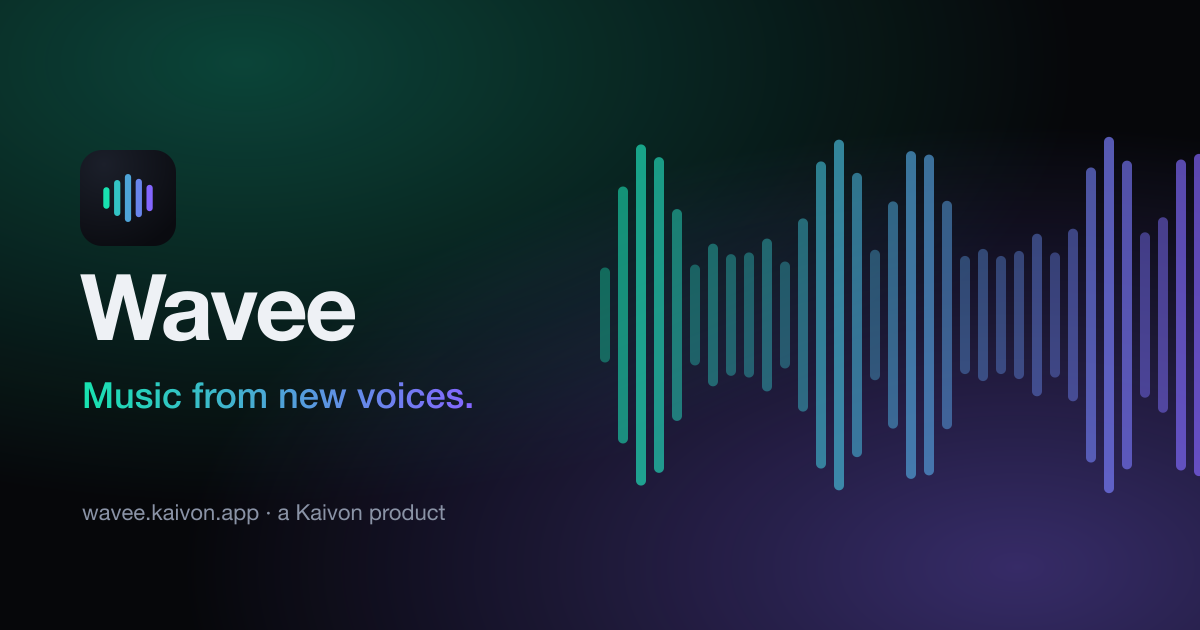
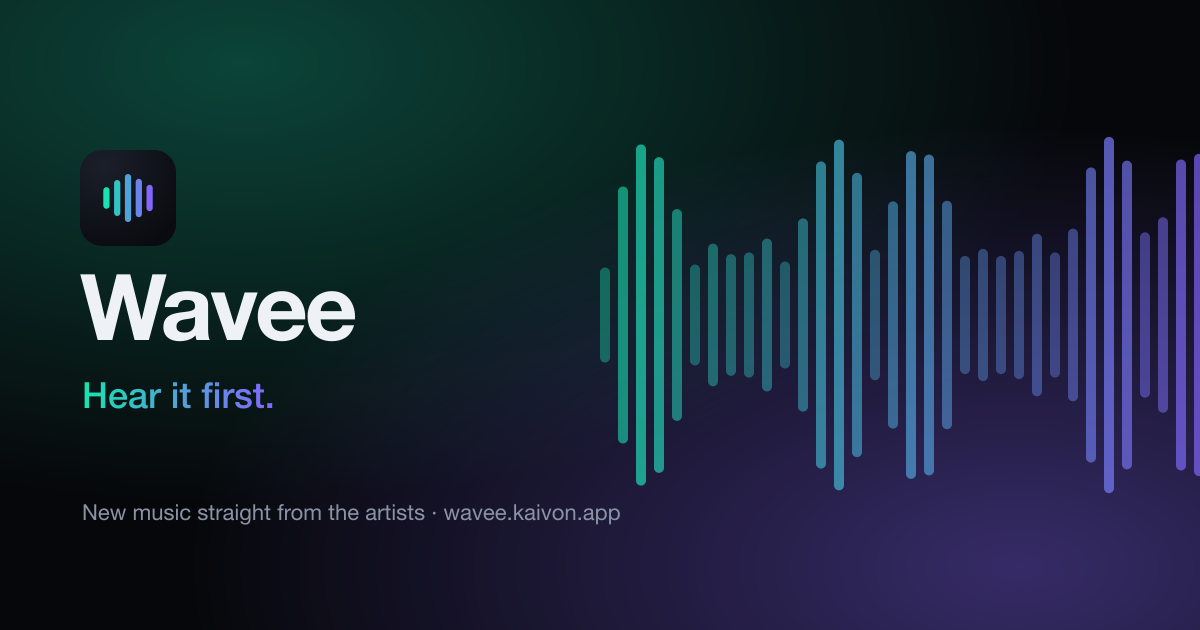
"Hear it first", and verified artists
Wavee is for every artist, from rising names to the biggest stars, so the
slogan is now "Hear it first" (page titles, link previews, sign-in pages,
the home page and the growth plan).

Moderators can verify an artist after confirming it's really them
(set_verified, logged); the badge shows on their profile, songs and the
feed, and artists can't give it to themselves.

Changed region(s): [[0.0617, 0.7841, 0.5242, 0.8444], [0.0617, 0.6032, 0.4008, 0.6635]]

diff --git a/apps/frontend/src/pages/Admin.tsx b/apps/frontend/src/pages/Admin.tsx
@@ -1,9 +1,10 @@
 import { useQuery, useQueryClient } from '@tanstack/react-query';
 import clsx from 'clsx';
 import { useState } from 'react';
-import { LuBug, LuExternalLink, LuFlag, LuShield } from 'react-icons/lu';
+import { LuBadgeCheck, LuBug, LuExternalLink, LuFlag, LuShield } from 'react-icons/lu';
 import { Link } from 'react-router-dom';
-import { Button, EmptyState, Skeleton, Spinner } from '../components/ui';
+import { Verified } from '../components/music/Verified';
+import { Avatar, Button, EmptyState, Input, Skeleton, Spinner } from '../components/ui';
 import { api, type Report } from '../lib/api';
 import { ago } from '../lib/format';
 import { useAuth } from '../store/auth';
@@ -34,7 +35,7 @@ function Pills<T extends string>({ value, options, onChange }: { value: T; optio
 export function Admin() {
   const account = useAuth((s) => s.account);
   const loading = useAuth((s) => s.loading);
-  const [tab, setTab] = useState<'reports' | 'bugs'>('reports');
+  const [tab, setTab] = useState<'reports' | 'bugs' | 'artists'>('reports');
   if (loading) return <Spinner className="mx-auto mt-24 block h-8 w-8 text-muted" />;
   if (!account?.is_admin) return <EmptyState icon={<LuShield />} title="Moderators only" text="This page is for the Wavee team." />;
   return (
@@ -45,6 +46,7 @@ export function Admin() {
           [
             ['reports', 'Reports', <LuFlag key="f" />],
             ['bugs', 'Bug reports', <LuBug key="b" />],
+            ['artists', 'Verify artists', <LuBadgeCheck key="v" />],
           ] as const
         ).map(([id, label, icon]) => (
           <button
@@ -60,7 +62,7 @@ export function Admin() {
           </button>
         ))}
       </div>
-      {tab === 'reports' ? <Reports /> : <Bugs />}
+      {tab === 'reports' ? <Reports /> : tab === 'bugs' ? <Bugs /> : <VerifyArtists />}
     </div>
   );
 }
@@ -214,5 +216,103 @@ function Bugs() {
         )}
       </div>
     </>
+  );
+}
+
+/** Look someone up and give (or take away) the verified badge. Verify only after checking it's
+ * really them: an email from their official address or management, or a post on their official
+ * account mentioning their Wavee username. */
+function VerifyArtists() {
+  const [query, setQuery] = useState('');
+  const [username, setUsername] = useState('');
+  const [note, setNote] = useState('');
+  const [busy, setBusy] = useState(false);
+  const client = useQueryClient();
+  const profile = useQuery({
+    queryKey: ['profile', username],
+    queryFn: () => api.profile(username),
+    enabled: !!username,
+  });
+  const p = profile.data;
+
+  const set = async (verified: boolean) => {
+    if (!p) return;
+    setBusy(true);
+    try {
+      await api.setVerified(p.id, verified, note);
+      await client.invalidateQueries({ queryKey: ['profile', username] });
+      toast(verified ? `${p.display_name || p.username} is verified` : 'Badge removed', 'success');
+      setNote('');
+    } catch (e) {
+      toast((e as Error).message, 'error');
+    } finally {
+      setBusy(false);
+    }
+  };
+
+  return (
+    <div className="max-w-xl">
+      <p className="mb-5 text-sm leading-6 text-muted">
+        Verify an artist only after checking it’s really them: an email from their official address or management, or a
+        post on their official account that mentions their Wavee username. Write down how you checked.
+      </p>
+      <form
+        className="flex gap-2"
+        onSubmit={(e) => {
+          e.preventDefault();
+          setUsername(query.trim().replace(/^@/, '').toLowerCase());
+        }}
+      >
+        <input
+          value={query}
+          onChange={(e) => setQuery(e.target.value)}
+          placeholder="Username"
+          autoCapitalize="off"
+          className="h-11 flex-1 rounded-xl border border-line/10 bg-line/[0.03] px-3.5 text-sm placeholder:text-faint focus:border-violet/60 focus:outline-none"
+        />
+        <Button type="submit" variant="secondary">
+          Look up
+        </Button>
+      </form>
+      {username && (
+        <div className="card mt-5 p-5">
+          {profile.isLoading ? (
+            <Spinner className="h-6 w-6 text-muted" />
+          ) : p ? (
+            <>
+              <div className="flex items-center gap-4">
+                <Avatar src={p.avatar_url} name={p.display_name || p.username} className="h-14 w-14 text-lg" />
+                <div className="min-w-0">
+                  <p className="flex items-center gap-1.5 font-medium">
+                    {p.display_name || p.username}
+                    {p.verified && <Verified className="h-4 w-4" />}
+                  </p>
+                  <p className="text-[13px] text-muted">
+                    @{p.username} · {p.followers_count} followers · {p.songs_count} songs
+                  </p>
+                </div>
+              </div>
+              <Input className="mt-4" placeholder="How you checked (kept in the log)" value={note} onChange={(e) => setNote(e.target.value)} />
+              <div className="mt-4 flex gap-2">
+                {p.verified ? (
+                  <Button variant="danger" loading={busy} onClick={() => void set(false)}>
+                    Remove the badge
+                  </Button>
+                ) : (
+                  <Button variant="brand" icon={<LuBadgeCheck />} loading={busy} disabled={!note.trim()} onClick={() => void set(true)}>
+                    Verify
+                  </Button>
+                )}
+                <Link to={`/u/${p.username}`} className="ml-auto">
+                  <Button variant="ghost">Open profile</Button>
+                </Link>
+              </div>
+            </>
+          ) : (
+            <p className="text-sm text-muted">Nobody has that username.</p>
+          )}
+        </div>
+      )}
+    </div>
   );
 }

diff --git a/apps/frontend/index.html b/apps/frontend/index.html
@@ -3,18 +3,18 @@
   <head>
     <meta charset="UTF-8" />
     <meta name="viewport" content="width=device-width, initial-scale=1.0, viewport-fit=cover" />
-    <title>Wavee · Music from new voices</title>
-    <meta name="description" content="Stream, share and discover music from new artists. Upload your songs, cover art and music videos for free." />
+    <title>Wavee · Hear it first</title>
+    <meta name="description" content="Stream, share and discover new music straight from the artists, from rising names to the biggest stars. Upload songs, cover art and music videos for free." />
     <meta name="theme-color" content="#06070a" />
     <meta name="color-scheme" content="dark" />
 
     <meta property="og:type" content="website" />
     <meta property="og:site_name" content="Wavee" />
-    <meta property="og:title" content="Wavee · Music from new voices" />
-    <meta property="og:description" content="Stream, share and discover music from new artists. Upload your songs, cover art and music videos for free." />
+    <meta property="og:title" content="Wavee · Hear it first" />
+    <meta property="og:description" content="Stream, share and discover new music straight from the artists, from rising names to the biggest stars. Upload songs, cover art and music videos for free." />
     <meta property="og:image" content="https://wavee.kaivon.app/og.png" />
     <meta name="twitter:card" content="summary_large_image" />
-    <meta name="twitter:title" content="Wavee · Music from new voices" />
+    <meta name="twitter:title" content="Wavee · Hear it first" />
 
     <link rel="icon" type="image/svg+xml" href="/favicon.svg" />
     <link rel="icon" type="image/png" sizes="192x192" href="/icon-192.png" />

diff --git a/apps/frontend/src/pages/Artist.tsx b/apps/frontend/src/pages/Artist.tsx
@@ -3,6 +3,7 @@ import { useState } from 'react';
 import { LuEar, LuFlag, LuMusic, LuPencil, LuPlay, LuShare2, LuUserCheck, LuUserPlus } from 'react-icons/lu';
 import { Link, useParams } from 'react-router-dom';
 import { LinkPills } from '../components/music/Links';
+import { Verified } from '../components/music/Verified';
 import { SongRow } from '../components/music/Song';
 import { Menu, ReportDialog } from '../components/music/SongMenu';
 import { Avatar, Button, Cover, EmptyState, Skeleton } from '../components/ui';
@@ -63,7 +64,10 @@ export function Artist() {
           <Avatar src={p.avatar_url} name={name} className="h-36 w-36 text-5xl shadow-lift ring-4 ring-bg sm:h-44 sm:w-44" />
           <div className="min-w-0">
             <p className="label">{p.is_artist ? 'Artist' : 'Listener'}{p.music_roles?.length ? ` · ${p.music_roles.join(', ')}` : ''}</p>
-            <h1 className="mt-2 break-words text-[34px] leading-tight sm:text-5xl">{name}</h1>
+            <h1 className="mt-2 break-words text-[34px] leading-tight sm:text-5xl">
+              {name}
+              {p.verified && <Verified className="ml-2 inline h-7 w-7 align-[-0.1em] sm:h-9 sm:w-9" />}
+            </h1>
             <p className="mt-1 text-muted">@{p.username}</p>
             {p.bio && <p className="mt-3 max-w-xl text-[15px] leading-6 text-ink/80">{p.bio}</p>}
             {p.ear?.early_likes > 0 && (

diff --git a/apps/frontend/src/lib/api.ts b/apps/frontend/src/lib/api.ts
@@ -22,6 +22,8 @@ export interface Song {
   liked: boolean;
   /** Where the best part starts, in seconds (the feed plays from here). */
   hook_start: number | null;
+  /** The artist has the verified badge. */
+  artist_verified?: boolean;
   position?: number;
   /** Only on a single song (get_song). */
   links?: Links;
@@ -45,6 +47,7 @@ export interface Profile extends UserCard {
   links: Links;
   /** Tastemaker record: likes given early, and how many of those songs became hits. */
   ear: { early_likes: number; hits: number };
+  verified?: boolean;
 }
 
 export interface ChartEntry {
@@ -390,6 +393,12 @@ export const api = {
     const { error } = await supabase.from('bug_reports').update({ status }).eq('id', id);
     if (error) throw new ApiError(friendly(error.message));
   },
+  setVerified: async (userId: string, verified: boolean, note: string) =>
+    one(await rpc<{ verified: boolean }[] | { verified: boolean }>('set_verified', {
+      p_user: userId,
+      p_verified: verified,
+      p_note: note || null,
+    })),
   resolveReport: (id: string, status: string, note: string) =>
     rpc<void>('resolve_report', { p_report: id, p_status: status, p_note: note }),
   moderateSong: (id: string, status: 'active' | 'hidden' | 'removed', note: string) =>

diff --git a/apps/frontend/src/pages/SongPage.tsx b/apps/frontend/src/pages/SongPage.tsx
@@ -2,6 +2,7 @@ import { useState } from 'react';
 import { LuCalendar, LuFilm, LuHeadphones, LuHeart, LuImage, LuShare2 } from 'react-icons/lu';
 import { Link, useParams } from 'react-router-dom';
 import { LinkPills } from '../components/music/Links';
+import { Verified } from '../components/music/Verified';
 import { ShareCardDialog } from '../components/music/ShareCard';
 import { LikeButton, PlayToggle, SongRow } from '../components/music/Song';
 import { SongMenu, shareSong } from '../components/music/SongMenu';
@@ -51,6 +52,7 @@ export function SongPage() {
             <Link to={`/u/${s.artist_username}`} className="mt-5 inline-flex items-center gap-3 hover:underline">
               <Avatar src={s.artist_avatar_url} name={artistName(s)} className="h-8 w-8 text-xs" />
               <span className="font-medium">{artistName(s)}</span>
+              {s.artist_verified && <Verified className="h-4 w-4" />}
             </Link>
             <div className="mt-4 flex flex-wrap gap-x-5 gap-y-1 text-[13px] text-muted">
               <span className="inline-flex items-center gap-1.5"><LuHeadphones /> {count(s.plays_count)} plays</span>

diff --git a/apps/frontend/src/components/music/Song.tsx b/apps/frontend/src/components/music/Song.tsx
@@ -8,6 +8,7 @@ import { withAccount } from '../../store/auth';
 import { currentSong, usePlayer } from '../../store/player';
 import { Bars, Cover, IconButton, Spinner } from '../ui';
 import { SongMenu } from './SongMenu';
+import { Verified } from './Verified';
 
 /** Whether [song] is the one playing, and whether it's sounding. */
 export function useIsCurrent(song: Song) {
@@ -130,9 +131,10 @@ export function SongRow({
         <Link
           to={`/u/${song.artist_username}`}
           onClick={(e) => e.stopPropagation()}
-          className="truncate text-[13px] text-muted transition hover:text-ink hover:underline"
+          className="inline-flex max-w-full items-center gap-1 truncate text-[13px] text-muted transition hover:text-ink hover:underline"
         >
-          {artistName(song)}
+          <span className="truncate">{artistName(song)}</span>
+          {song.artist_verified && <Verified className="h-3.5 w-3.5" />}
         </Link>
       </div>
       <span className="hidden text-[13px] tabular-nums text-faint md:block">{count(song.plays_count)} plays</span>

diff --git a/apps/frontend/src/pages/Feed.tsx b/apps/frontend/src/pages/Feed.tsx
@@ -5,6 +5,7 @@ import { LuPause, LuPlay, LuShare2 } from 'react-icons/lu';
 import { Link } from 'react-router-dom';
 import { LikeButton, useIsCurrent } from '../components/music/Song';
 import { SongMenu, shareSong } from '../components/music/SongMenu';
+import { Verified } from '../components/music/Verified';
 import { Bars, Button, Cover, EmptyState, IconButton, Spinner } from '../components/ui';
 import { useFeed } from '../hooks/data';
 import { api, type Song } from '../lib/api';
@@ -41,6 +42,7 @@ function FeedCard({ song, onPlay }: { song: Song; onPlay: () => void }) {
             <Link to={`/u/${song.artist_username}`} className="mt-1 flex items-center gap-2 text-muted hover:text-ink">
               {playing && <Bars playing className="h-3.5 w-3.5" />}
               {artistName(song)}
+              {song.artist_verified && <Verified className="h-4 w-4" />}
             </Link>
             <p className="mt-2 text-[13px] text-faint">
               {song.genre} · {count(song.plays_count)} plays

diff --git a/apps/frontend/src/components/auth/AuthLayout.tsx b/apps/frontend/src/components/auth/AuthLayout.tsx
@@ -41,13 +41,13 @@ export function AuthLayout({
               ))}
             </div>
             <p className="max-w-md text-[28px] font-semibold leading-tight tracking-tight">
-              Music from new voices,
+              New music, straight from the artists.
               <br />
-              <span className="text-brand">the moment it’s made.</span>
+              <span className="text-brand">Hear it first.</span>
             </p>
             <p className="mt-4 max-w-sm text-sm leading-6 text-muted">
-              Upload your songs and videos, find artists before everyone else does, and build the playlists your
-              friends steal.
+              From rising names to the biggest stars: drop your songs and videos where fans hear them first, climb the
+              weekly charts, and build the playlists your friends steal.
             </p>
           </div>
           <p className="text-[12px] text-faint">Wavee is a Kaivon product.</p>

diff --git a/apps/frontend/src/pages/Home.tsx b/apps/frontend/src/pages/Home.tsx
@@ -86,8 +86,8 @@ function Hero({ trending }: { trending?: Song[] }) {
             transition={{ delay: 0.25, duration: 0.7 }}
             className="mt-5 max-w-md text-[16px] leading-7 text-muted"
           >
-            Wavee is where new artists upload their songs and videos, and where listeners find them before everyone
-            else. Free to listen, free to upload.
+            Wavee is where artists drop their songs and videos, from rising names to the biggest stars, and where fans
+            hear them first. Free to listen, free to upload.
           </motion.p>
           <motion.div initial={{ opacity: 0, y: 10 }} animate={{ opacity: 1, y: 0 }} transition={{ delay: 0.4 }} className="mt-8 flex flex-wrap gap-3">
             <Button

diff --git a/apps/frontend/src/content/legal.ts b/apps/frontend/src/content/legal.ts
@@ -278,7 +278,7 @@ export const guidelines: LegalDoc = {
       heading: 'Be honest',
       body: [
         [
-          'Don’t pretend to be another artist, label or person.',
+          'Don’t pretend to be another artist, label or person. The verified badge is given only by Wavee, after we confirm an artist is who they say they are.',
           'Don’t fake plays, likes or follows, or pay for them.',
           'Use titles, genres and descriptions that match the music: no misleading tags or spam.',
         ],

diff --git a/apps/frontend/src/components/music/Verified.tsx b/apps/frontend/src/components/music/Verified.tsx
@@ -1,0 +1,15 @@
+import clsx from 'clsx';
+import { LuBadgeCheck } from 'react-icons/lu';
+
+/** The badge moderators give real artists, so fans can tell them from impostors. */
+export function Verified({ className }: { className?: string }) {
+  return (
+    <LuBadgeCheck
+      role="img"
+      aria-label="Verified artist"
+      className={clsx('inline-block shrink-0 fill-teal/20 text-teal', className ?? 'h-[1em] w-[1em]')}
+    >
+      <title>Verified artist</title>
+    </LuBadgeCheck>
+  );
+}

diff --git a/tool/db_test/run_tests.py b/tool/db_test/run_tests.py
@@ -1087,13 +1087,13 @@ def run_contract_tests(db, c):
              set(song) == {"id", "title", "genre", "description", "audio_url", "video_url", "cover_image_url",
                            "duration_seconds", "explicit", "plays_count", "likes_count", "created_at", "artist_id",
                            "artist_username", "artist_display_name", "artist_avatar_url", "liked", "hook_start",
-                           "links"}, sorted(song))
+                           "artist_verified", "links"}, sorted(song))
         c.ok("get_song of an unknown id is null", db.anon("select public.get_song(%s)", (uid(),))[0][0] is None)
         prof = db.anon("select public.get_profile('NEWBIE')")[0][0]
         c.ok("get_profile is case-insensitive and has the contract keys",
              prof and set(prof) == {"id", "username", "display_name", "avatar_url", "bio", "is_artist", "music_roles",
                                     "followers_count", "following_count", "songs_count", "is_following", "links",
-                                    "ear"}, prof)
+                                    "ear", "verified"}, prof)
         c.ok("get_profile of an unknown user is null",
              db.anon("select public.get_profile('nobody_here')")[0][0] is None)
 
@@ -1205,6 +1205,27 @@ def run_contract_tests(db, c):
         db.service("update public.songs set status = 'active' where id = %s", (a,))
         c.ok("an unknown chart reads as top",
              len(db.anon("select public.get_chart('nonsense', 'chart test', 10)")[0][0]) == 3)
+
+        # Verified artists: only moderators give the badge.
+        name = username_of(ARTIST)
+        c.ok("artists start unverified", db.anon("select public.get_profile(%s)", (name,))[0][0]["verified"] is False)
+        c.raises("an artist can't verify themselves (column)",
+                 lambda: db.user(ARTIST, "update public.users set verified_at = now() where id = %s", (ARTIST,)), "42501")
+        c.raises("an artist can't verify themselves (function)",
+                 lambda: db.user(ARTIST, "select public.set_verified(%s, true)", (ARTIST,)), "42501")
+        c.raises("anon can't call set_verified",
+                 lambda: db.anon("select public.set_verified(%s, true)", (ARTIST,)), "42501")
+        r = db.user(ADMIN, "select public.set_verified(%s, true, 'label confirmed by email')", (ARTIST,))[0][0]
+        c.ok("a moderator verifies an artist", r == {"verified": True}, r)
+        c.ok("the profile shows the badge", db.anon("select public.get_profile(%s)", (name,))[0][0]["verified"] is True)
+        cards = [r for r in db.anon("select id, artist_verified from public.get_new_releases(100)") if str(r[0]) == sid]
+        c.ok("their song cards carry the badge", cards and cards[0][1] is True, cards)
+        c.ok("the decision is logged",
+             db.su("select count(*) from public.moderation_log where target_id = %s and action = 'verified'",
+                   (ARTIST,))[0][0] == 1)
+        db.user(ADMIN, "select public.set_verified(%s, false)", (ARTIST,))
+        c.ok("a moderator can take the badge away",
+             db.anon("select public.get_profile(%s)", (name,))[0][0]["verified"] is False)
 
     c.safe("growth", growth)
 
